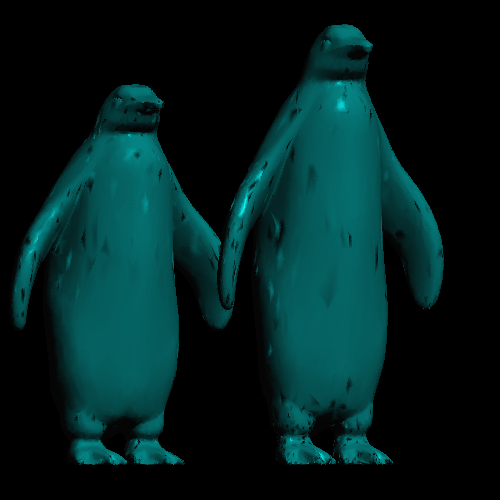
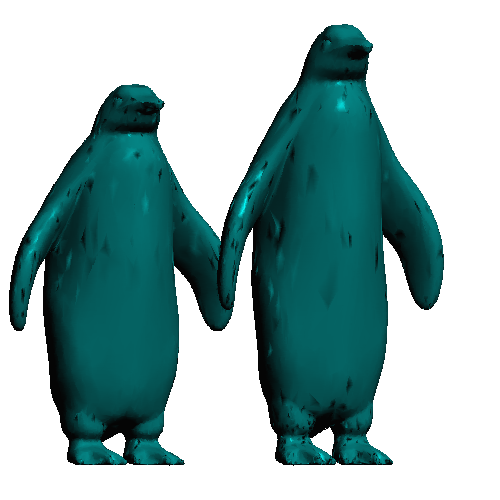
I fixed a major bug with my program! It turns out I just messed up my hash table.

diff --git a/draw.c b/draw.c
@@ -44,24 +44,19 @@ void draw_scanline(int x0, double z0, int x1, double z1, int y, screen s, zbuffe
   cG = c0.green;
   cB = c0.blue;
 
-  dcR = ((double)c1.red-(double)c0.red)/(x1-x0);
-  dcG = ((double)c1.green-(double)c0.green)/(x1-x0);
-  dcB = ((double)c1.blue-(double)c0.blue)/(x1-x0);
-
+  dcR = x1 != x0 ? ((double)c1.red-(double)c0.red)/(x1-x0+1) : 0;
+  dcG = x1 != x0 ? ((double)c1.green-(double)c0.green)/(x1-x0+1) : 0;
+  dcB = x1 != x0 ? ((double)c1.blue-(double)c0.blue)/(x1-x0+1) : 0;
 
   for(x=x0; x <= x1; x++) {
 
-    //n[0] = (x1 - x0) != 0 ? lerp(v0[0], v1[0], (x-x0)/(x1-x0)) : v0[0];
-    //n[1] = v0[1];
-    //n[2] = (z1 - z0) != 0 ? lerp(v0[2], v1[2], (z-z0)/(z1-z0)) : v0[2];
+    cF.red = (unsigned short)cR;
+    cF.green = (unsigned short)cG;
+    cF.blue = (unsigned short)cB;
 
-    //normalize(n);
+    limit_color(&cF);
 
-    //i = get_lighting(n, view, ambient, light, areflect, dreflect, sreflect);
-
-    cF.red = cR;
-    cF.green = cG;
-    cF.blue = cB;
+    //printf("%d %d %d\n",cF.red,cF.green,cF.blue);
 
     plot(s, zb, cF, x, y, z);
 
@@ -82,7 +77,7 @@ void draw_scanline(int x0, double z0, int x1, double z1, int y, screen s, zbuffe
 
   Fills in polygon i by drawing consecutive horizontal (or vertical) lines.
   ====================*/
-void scanline_convert( struct matrix *points, int i, screen s, zbuffer zb, color il, 
+void scanline_convert( struct matrix *points, int i, screen s, zbuffer zb,
   struct htElement** ht) {
 
   int top, mid, bot, y;
@@ -173,28 +168,6 @@ void scanline_convert( struct matrix *points, int i, screen s, zbuffer zb, color
   botV[1] = points->m[1][bot];
   botV[2] = points->m[2][bot];
 
-  // topN[0] = getNormal(ht, topV)[0];
-  // topN[1] = getNormal(ht, topV)[1];
-  // topN[2] = getNormal(ht, topV)[2];
-
-  // midN[0] = getNormal(ht, midV)[0];
-  // midN[1] = getNormal(ht, midV)[1];
-  // midN[2] = getNormal(ht, midV)[2];
-
-  // botN[0] = getNormal(ht, botV)[0];
-  // botN[1] = getNormal(ht, botV)[1];
-  // botN[2] = getNormal(ht, botV)[2];
-
-  // xi0 = points->m[0][bot];
-  // yi0 = points->m[1][bot];
-  // zi0 = points->m[2][bot];
-  // xf = points->m[0][top];
-  // yf = points->m[1][top];
-  // zf = points->m[2][top];
-  // xi1 = points->m[0][mid];
-  // yi1 = points->m[1][mid];
-  // zi1 = points->m[2][mid];
-
   iTop = getColor(ht, topV);
   iMid = getColor(ht, midV);
   iBot = getColor(ht, botV);
@@ -206,13 +179,13 @@ void scanline_convert( struct matrix *points, int i, screen s, zbuffer zb, color
   c1G = iBot.green;
   c1B = iBot.blue;
 
-  dc0R = ((double)iTop.red-(double)iBot.red)/distance0;
-  dc0G = ((double)iTop.green-(double)iBot.green)/distance0;
-  dc0B = ((double)iTop.blue-(double)iBot.blue)/distance0;
+  dc0R = distance0 > 0 ? ((double)iTop.red-(double)iBot.red)/(double)distance0 : 0;
+  dc0G = distance0 > 0 ? ((double)iTop.green-(double)iBot.green)/(double)distance0 : 0;
+  dc0B = distance0 > 0 ? ((double)iTop.blue-(double)iBot.blue)/(double)distance0 : 0;
 
-  dc1R = ((double)iMid.red-(double)iBot.red)/distance1;
-  dc1G = ((double)iMid.green-(double)iBot.green)/distance1;
-  dc1B = ((double)iMid.blue-(double)iBot.blue)/distance1;
+  dc1R = distance1 > 0 ? ((double)iMid.red-(double)iBot.red)/(double)distance1 : 0;
+  dc1G = distance1 > 0 ? ((double)iMid.green-(double)iBot.green)/(double)distance1 : 0;
+  dc1B = distance1 > 0 ? ((double)iMid.blue-(double)iBot.blue)/(double)distance1 : 0;
 
   while ( y <= (int)points->m[1][top] ) {
     //printf("\tx0: %0.2f x1: %0.2f y: %d\n", x0, x1, y);
@@ -226,9 +199,9 @@ void scanline_convert( struct matrix *points, int i, screen s, zbuffer zb, color
       dx1 = distance2 > 0 ? (points->m[0][top]-points->m[0][mid])/distance2 : 0;
       dz1 = distance2 > 0 ? (points->m[2][top]-points->m[2][mid])/distance2 : 0;
 
-      dc1R = ((double)iTop.red-(double)iMid.red)/distance2;
-      dc1G = ((double)iTop.green-(double)iMid.green)/distance2;
-      dc1B = ((double)iTop.blue-(double)iMid.blue)/distance2;
+      dc1R = distance2 > 0 ? ((double)iTop.red-(double)iMid.red)/(double)distance2 : 0;
+      dc1G = distance2 > 0 ? ((double)iTop.green-(double)iMid.green)/(double)distance2 : 0;
+      dc1B = distance2 > 0 ? ((double)iTop.blue-(double)iMid.blue)/(double)distance2 : 0;
 
       c1R = iMid.red;
       c1G = iMid.green;
@@ -238,24 +211,19 @@ void scanline_convert( struct matrix *points, int i, screen s, zbuffer zb, color
       z1 = points->m[2][mid];
     }//end flip code
 
-    /*if(y >= (int)(points->m[1][mid]) ){
-      v1[0] = lerp(midN[0],topN[0],(x1-xi1)/(xf-xi1));
-      v1[1] = lerp(midN[1],topN[1],(y1-yi1)/(yf-yi1));
-      v1[2] = lerp(midN[2],topN[2],(z1-zi1)/(zf-zi1));
-    } else {
-      v1[0] = lerp(botN[0],midN[0],(x1-xi0)/(xi1-xi0));
-      v1[1] = lerp(botN[1],midN[1],(y1-yi0)/(yi1-yi0));
-      v1[2] = lerp(botN[2],midN[2],(z1-zi0)/(zi1-zi0));
-    }*/
-    //draw_line(x0, y, z0, x1, y, z1, s, zb, il);
+    c0.red = (unsigned short)c0R;
+    c0.green = (unsigned short)c0G;
+    c0.blue = (unsigned short)c0B;
 
-    c0.red = c0R;
-    c0.green = c0G;
-    c0.blue = c0B;
+    limit_color(&c0);
 
-    c1.red = c1R;
-    c1.green = c1G;
-    c1.blue = c1B;
+    c1.red = (unsigned short)c1R;
+    c1.green = (unsigned short)c1G;
+    c1.blue = (unsigned short)c1B;
+
+    limit_color(&c1);
+    //printf("%f %f %f %f %f %f\n%d %d %d %d %d %d\n",c0R, c0G, c0B, c1R, c1G, c1B,c0.red,c0.green,c0.blue,c1.red,c1.green,c1.blue);
+
 
     draw_scanline(x0, z0, x1, z1, y, s, zb, c0, c1);
 
@@ -330,6 +298,7 @@ void draw_polygons( struct matrix *polygons, screen s, zbuffer zb, color c,
   for (point=0; point < polygons->lastcol-2; point+=3) {
 
     normal = calculate_normal(polygons, point);
+    normalize(normal);
 
     v0[0] = polygons->m[0][point];
     v0[1] = polygons->m[1][point];
@@ -359,8 +328,7 @@ void draw_polygons( struct matrix *polygons, screen s, zbuffer zb, color c,
 
       // get color value only if front facing
       //color i = get_lighting(normal, view, ambient, light, areflect, dreflect, sreflect);
-      color i = {255, 255, 255};
-      scanline_convert(polygons, point, s, zb, i, ht);
+      scanline_convert(polygons, point, s, zb, ht);
 
       /* draw_line( polygons->m[0][point], */
       /*            polygons->m[1][point], */

diff --git a/hashTable.c b/hashTable.c
@@ -8,6 +8,9 @@ struct htElement** createHT(){
 	struct htElement** ht = malloc(sizeof(struct htElement) * HASHTABLE_SIZE);
 
 	for(int x = 0; x < HASHTABLE_SIZE; x++){
+		if(ht[x] != NULL){
+			free(ht[x]);
+		}
 		ht[x] = NULL;
 	}
 
@@ -21,8 +24,8 @@ void freeHT(struct htElement** ht){
 	free(ht);
 }
 
-int getKey(double * vertex){
-	unsigned int f = ((unsigned int)vertex[0] + (unsigned int)vertex[1] * 11 - (unsigned int)vertex[2] * 17) & 0x7fffffff;
+unsigned int getKey(double * vertex){
+	unsigned int f = ((unsigned int)vertex[0] + (unsigned int)vertex[1] * 11 - (unsigned int)vertex[2] * 17);
 	return ((f >> 22) ^ (f >> 12) ^ f) % HASHTABLE_SIZE;
 }
 
@@ -65,13 +68,16 @@ int getKey(double * vertex){
 }*/
 
 void addNormal(struct htElement** ht, double* vertex, double* normal){
-	int vKey = getKey(vertex);
-	int index = vKey;
+	// double vNew[3];
+	// vNew[0] = (int)(vertex[0]*1000)/1000.0;
+	// vNew[1] = (int)(vertex[1]*1000)/1000.0;
+	// vNew[2] = (int)(vertex[2]*1000)/1000.0;
 
-	while(ht[index] != NULL && ht[index]->vertex[0] != vertex[0] && ht[index]->vertex[1] != vertex[1] && ht[index]->vertex[2] != vertex[2]){
+	unsigned int index = getKey(vertex);
+
+	while(ht[index] != NULL && (ht[index]->vertex[0] != vertex[0] || ht[index]->vertex[1] != vertex[1] || ht[index]->vertex[2] != vertex[2])){
 		index++;
 		index %= HASHTABLE_SIZE;
-		//printf("%d\n",index);
 	}
 
 	if(ht[index] == NULL) {
@@ -82,7 +88,7 @@ void addNormal(struct htElement** ht, double* vertex, double* normal){
 		ht[index]->normal[0] = normal[0];
 		ht[index]->normal[1] = normal[1];
 		ht[index]->normal[2] = normal[2];
-		ht[index]->num = 0;
+		ht[index]->num = 1;
 	} else {
 		ht[index]->normal[0] += normal[0];
 		ht[index]->normal[1] += normal[1];
@@ -93,8 +99,12 @@ void addNormal(struct htElement** ht, double* vertex, double* normal){
 
 double* getNormal(struct htElement** ht, double* vertex){
 
-	int vKey = getKey(vertex);
-	int index = vKey;
+	// double vNew[3];
+	// vNew[0] = (int)(vertex[0]*1000)/1000.0;
+	// vNew[1] = (int)(vertex[1]*1000)/1000.0;
+	// vNew[2] = (int)(vertex[2]*1000)/1000.0;
+
+	unsigned int index = getKey(vertex);
 
 	while(ht[index] != NULL && ht[index]->vertex[0] != vertex[0] && ht[index]->vertex[1] != vertex[1] && ht[index]->vertex[2] != vertex[2]){
 		index++;
@@ -105,25 +115,30 @@ double* getNormal(struct htElement** ht, double* vertex){
 }
 
 color getColor(struct htElement** ht, double* vertex){
-	int vKey = getKey(vertex);
-	int index = vKey;
+	// double vNew[3];
+	// vNew[0] = (int)(vertex[0]*1000)/1000.0;
+	// vNew[1] = (int)(vertex[1]*1000)/1000.0;
+	// vNew[2] = (int)(vertex[2]*1000)/1000.0;
 
-	while(ht[index] != NULL && ht[index]->vertex[0] != vertex[0] && ht[index]->vertex[1] != vertex[1] && ht[index]->vertex[2] != vertex[2]){
+	int index = getKey(vertex);
+
+	while(ht[index]->vertex[0] != vertex[0] || ht[index]->vertex[1] != vertex[1] || ht[index]->vertex[2] != vertex[2]){
 		index++;
 		index %= HASHTABLE_SIZE;
 	}
-
+	//printf("%d %d %d\n", ht[index]->c.red, ht[index]->c.green, ht[index]->c.blue);
 	return ht[index]->c;
+	//return c;
 }
 
 void htNormalize(struct htElement** ht, double *view, double light[2][3], color ambient,
   double *areflect, double *dreflect, double *sreflect){
 	for(int x = 0; x < HASHTABLE_SIZE; x++){
 		if(ht[x] != NULL){
-			//ht[x]->normal[0] /= ht[x]->num;
-			//ht[x]->normal[1] /= ht[x]->num;
-			//ht[x]->normal[2] /= ht[x]->num;
-			normalize(ht[x]->normal);
+			ht[x]->normal[0] /= ht[x]->num;
+			ht[x]->normal[1] /= ht[x]->num;
+			ht[x]->normal[2] /= ht[x]->num;
+			//normalize(ht[x]->normal);
 			ht[x]->c = get_lighting(ht[x]->normal, view, ambient, light, areflect, dreflect, sreflect);
 			//printf("%f\n",ht[x]->normal[0]*ht[x]->normal[0] + ht[x]->normal[1]*ht[x]->normal[1] + ht[x]->normal[2]*ht[x]->normal[2]);
 		}

diff --git a/parser.c b/parser.c
@@ -98,8 +98,6 @@ void parse_file ( char * filename,
   c.red = 0;
   c.green = 255;
   c.blue = 255;
-  struct htElement** ht = createHT();
-  printHT(ht);
 
   if ( strcmp(filename, "stdin") == 0 )
     f = stdin;
@@ -118,8 +116,8 @@ void parse_file ( char * filename,
     double theta;
     char axis;
     int type;
-    int step_3d = 30;
-    int step = 30;
+    int step_3d = 70;
+    int step = 70;
 
     if ( strncmp(line, "push", strlen(line)) == 0 ) {
       //printf("PUSH\b");

diff --git a/draw.h b/draw.h
@@ -8,7 +8,7 @@
 
 
 void draw_scanline(int x0, double z0, int x1, double z1, int y, screen s, zbuffer zb, color c0, color c1);
-void scanline_convert( struct matrix *points, int i, screen s, zbuffer zb, color il, struct htElement** ht);
+void scanline_convert( struct matrix *points, int i, screen s, zbuffer zb, struct htElement** ht);
 void draw_line_horizontal(int x0, int x1, 
   int y, double z0, double z1, 
   screen s, zbuffer zb, color c);

diff --git a/display.c b/display.c
@@ -54,12 +54,12 @@ void clear_screen( screen s ) {
   int x, y;
   color c;
 
-  //c.red = DEFAULT_COLOR;
-  //c.green = DEFAULT_COLOR;
-  //c.blue = DEFAULT_COLOR;
-  c.red = 0;
-  c.green = 0;
-  c.blue = 0;
+  c.red = DEFAULT_COLOR;
+  c.green = DEFAULT_COLOR;
+  c.blue = DEFAULT_COLOR;
+  // c.red = MAX_COLOR;
+  // c.green = MAX_COLOR;
+  // c.blue = MAX_COLOR;
 
   for ( y=0; y < YRES; y++ )
     for ( x=0; x < XRES; x++)

diff --git a/hashTable.h b/hashTable.h
@@ -9,13 +9,14 @@ struct htElement{
 	double vertex[3];
 	double normal[3];
 	int num;
+	int key;
 	color c;
 };
 
 struct htElement** createHT();
 void freeHT(struct htElement** ht);
 
-int getKey(double * vertex);
+unsigned int getKey(double * vertex);
 
 void addNormal(struct htElement** ht, double* vertex, double* normal);
 double * getNormal(struct htElement** ht, double * vertex);
